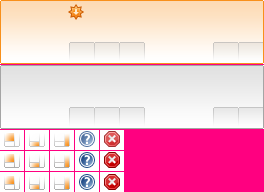
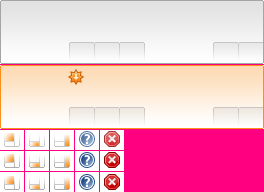
[cpro] Widget manager - updated gfx/layout

diff --git a/winamp5/Plugins/ClassicPro/engine/scripts/widgetManItem.m b/winamp5/Plugins/ClassicPro/engine/scripts/widgetManItem.m
@@ -42,7 +42,7 @@ system.onSetXuiParam (String param, String value)
 	if (strlower(param) == "widgetname")
 	{
 		name.setText(value);
-		version.setXmlParam("x", integerToString(65 + name.getTextWidth()));
+		version.setXmlParam("x", integerToString(66 + name.getTextWidth()));
 	}
 	else if (strlower(param) == "widgetpos_mini"){
 		showmini.setXmlParam("ghost", "0");
@@ -62,7 +62,7 @@ system.onSetXuiParam (String param, String value)
 	}
 	else if (strlower(param) == "widgetversion")
 	{
-		version.setText("v"+value);
+		version.setText(value);
 	}
 	else if (strlower(param) == "widgetid")
 	{
@@ -76,11 +76,15 @@ system.onSetXuiParam (String param, String value)
 	}
 	else if (strlower(param) == "widgetuninstaller")
 	{
-			uninstallerPath = value;
+		uninstaller.setXmlParam("ghost", "0");
+		uninstaller.setAlpha(255);
+		uninstallerPath = value;
 	}
 	else if (strlower(param) == "widgetsupport")
 	{
-			supportURL = value;
+		support.setXmlParam("ghost", "0");
+		support.setAlpha(255);
+		supportURL = value;
 	}
 }
 
@@ -95,10 +99,10 @@ support.onLeftClick ()
 	//getParentLayout().sendAction("show_widget", widgetID,stringToInteger(sg.getXmlParam("userdata")),0,0,0);
 }
 
-
+/*
 showmain.onLeftClick ()
 {
 	//debug(sg.getXmlParam("userdata"));
 	getParentLayout().sendAction("show_widget", widgetID,stringToInteger(sg.getXmlParam("userdata")),0,0,0);
-}
+}*/
 
